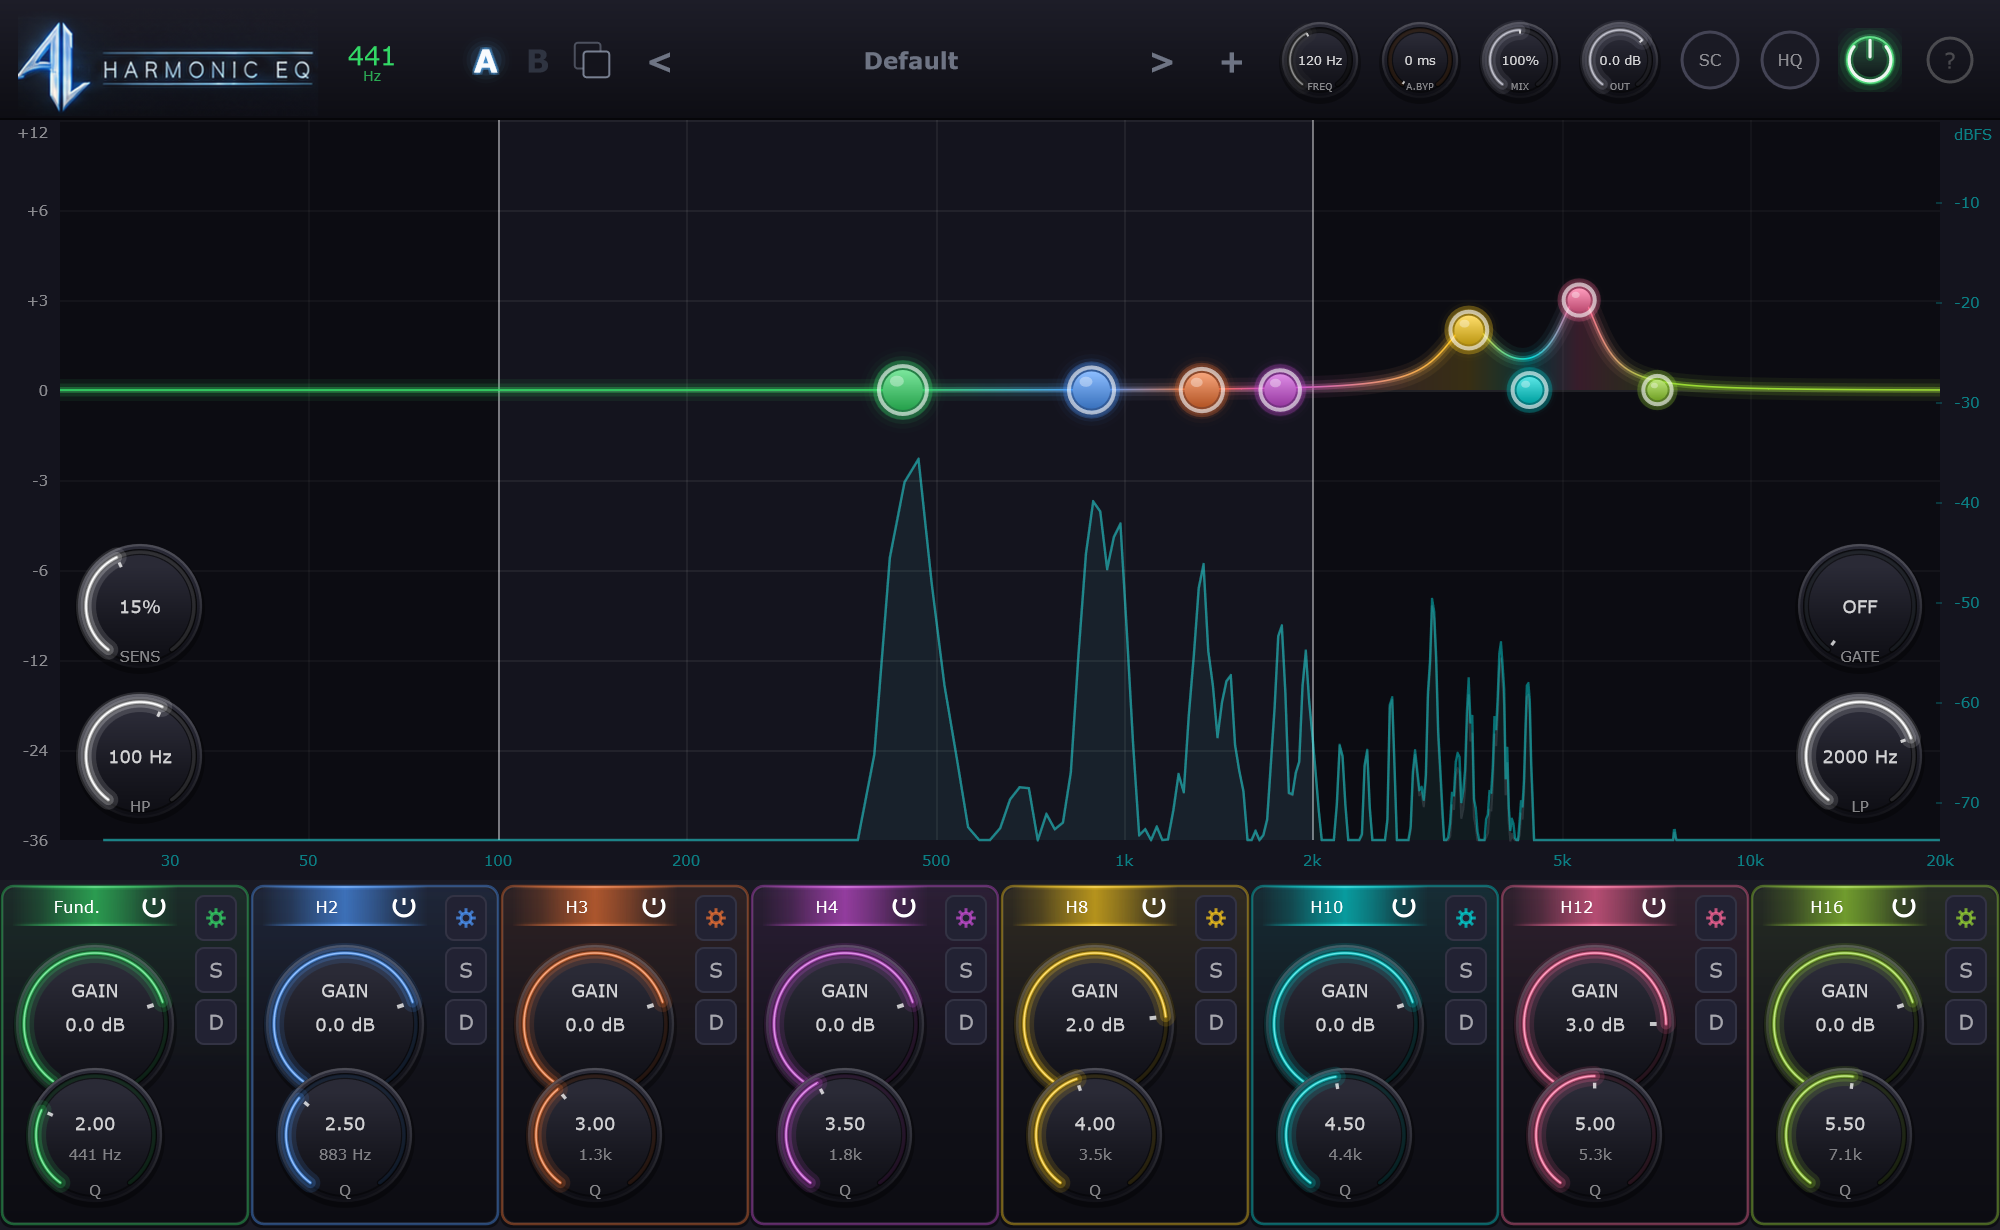
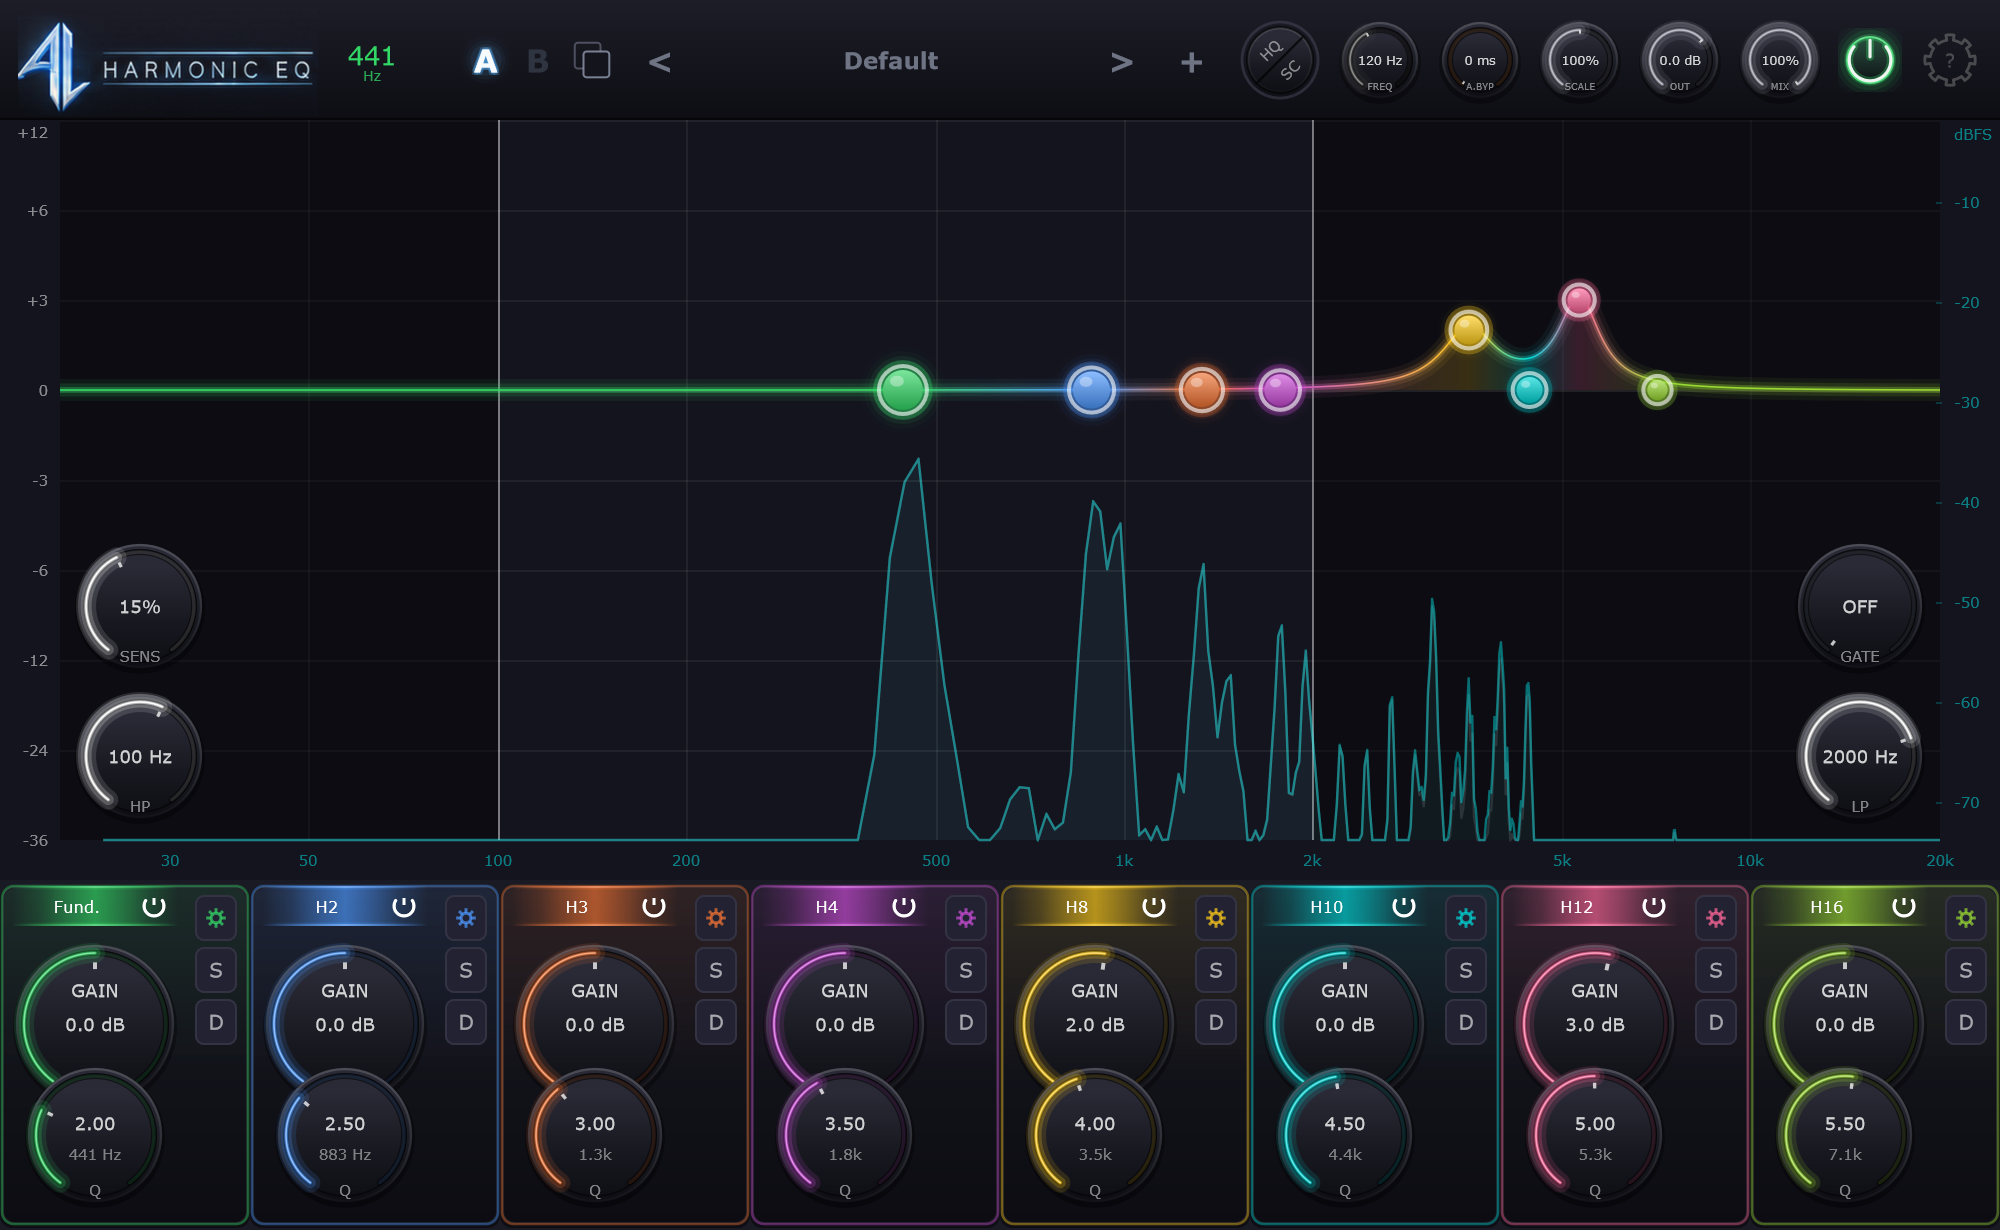
Version 1.0.5 changelog, and screenshots re-rendered with the new interface

diff --git a/README.md b/README.md
@@ -50,6 +50,18 @@ Harmonic EQ automatically detects the fundamental frequency of your audio and po
 
 ## Changelog
 
+### v1.0.5 (2026-08-30)
+
+**Added**
+- SCALE knob: sizes the whole EQ from 50% to 200%, replacing 200% mode; old sessions migrate automatically.
+- HQ and sidechain share one split button, and the settings gear glows when an update is available.
+
+**Improved**
+- Auto gain now hears bass, so the boosts most likely to clip draw real compensation.
+
+**Fixed**
+- At 0% MIX the output is now the bit-exact input; output gain and auto gain shape only the processed signal.
+
 ### v1.0.4 (2026-08-28)
 
 **Improved**
